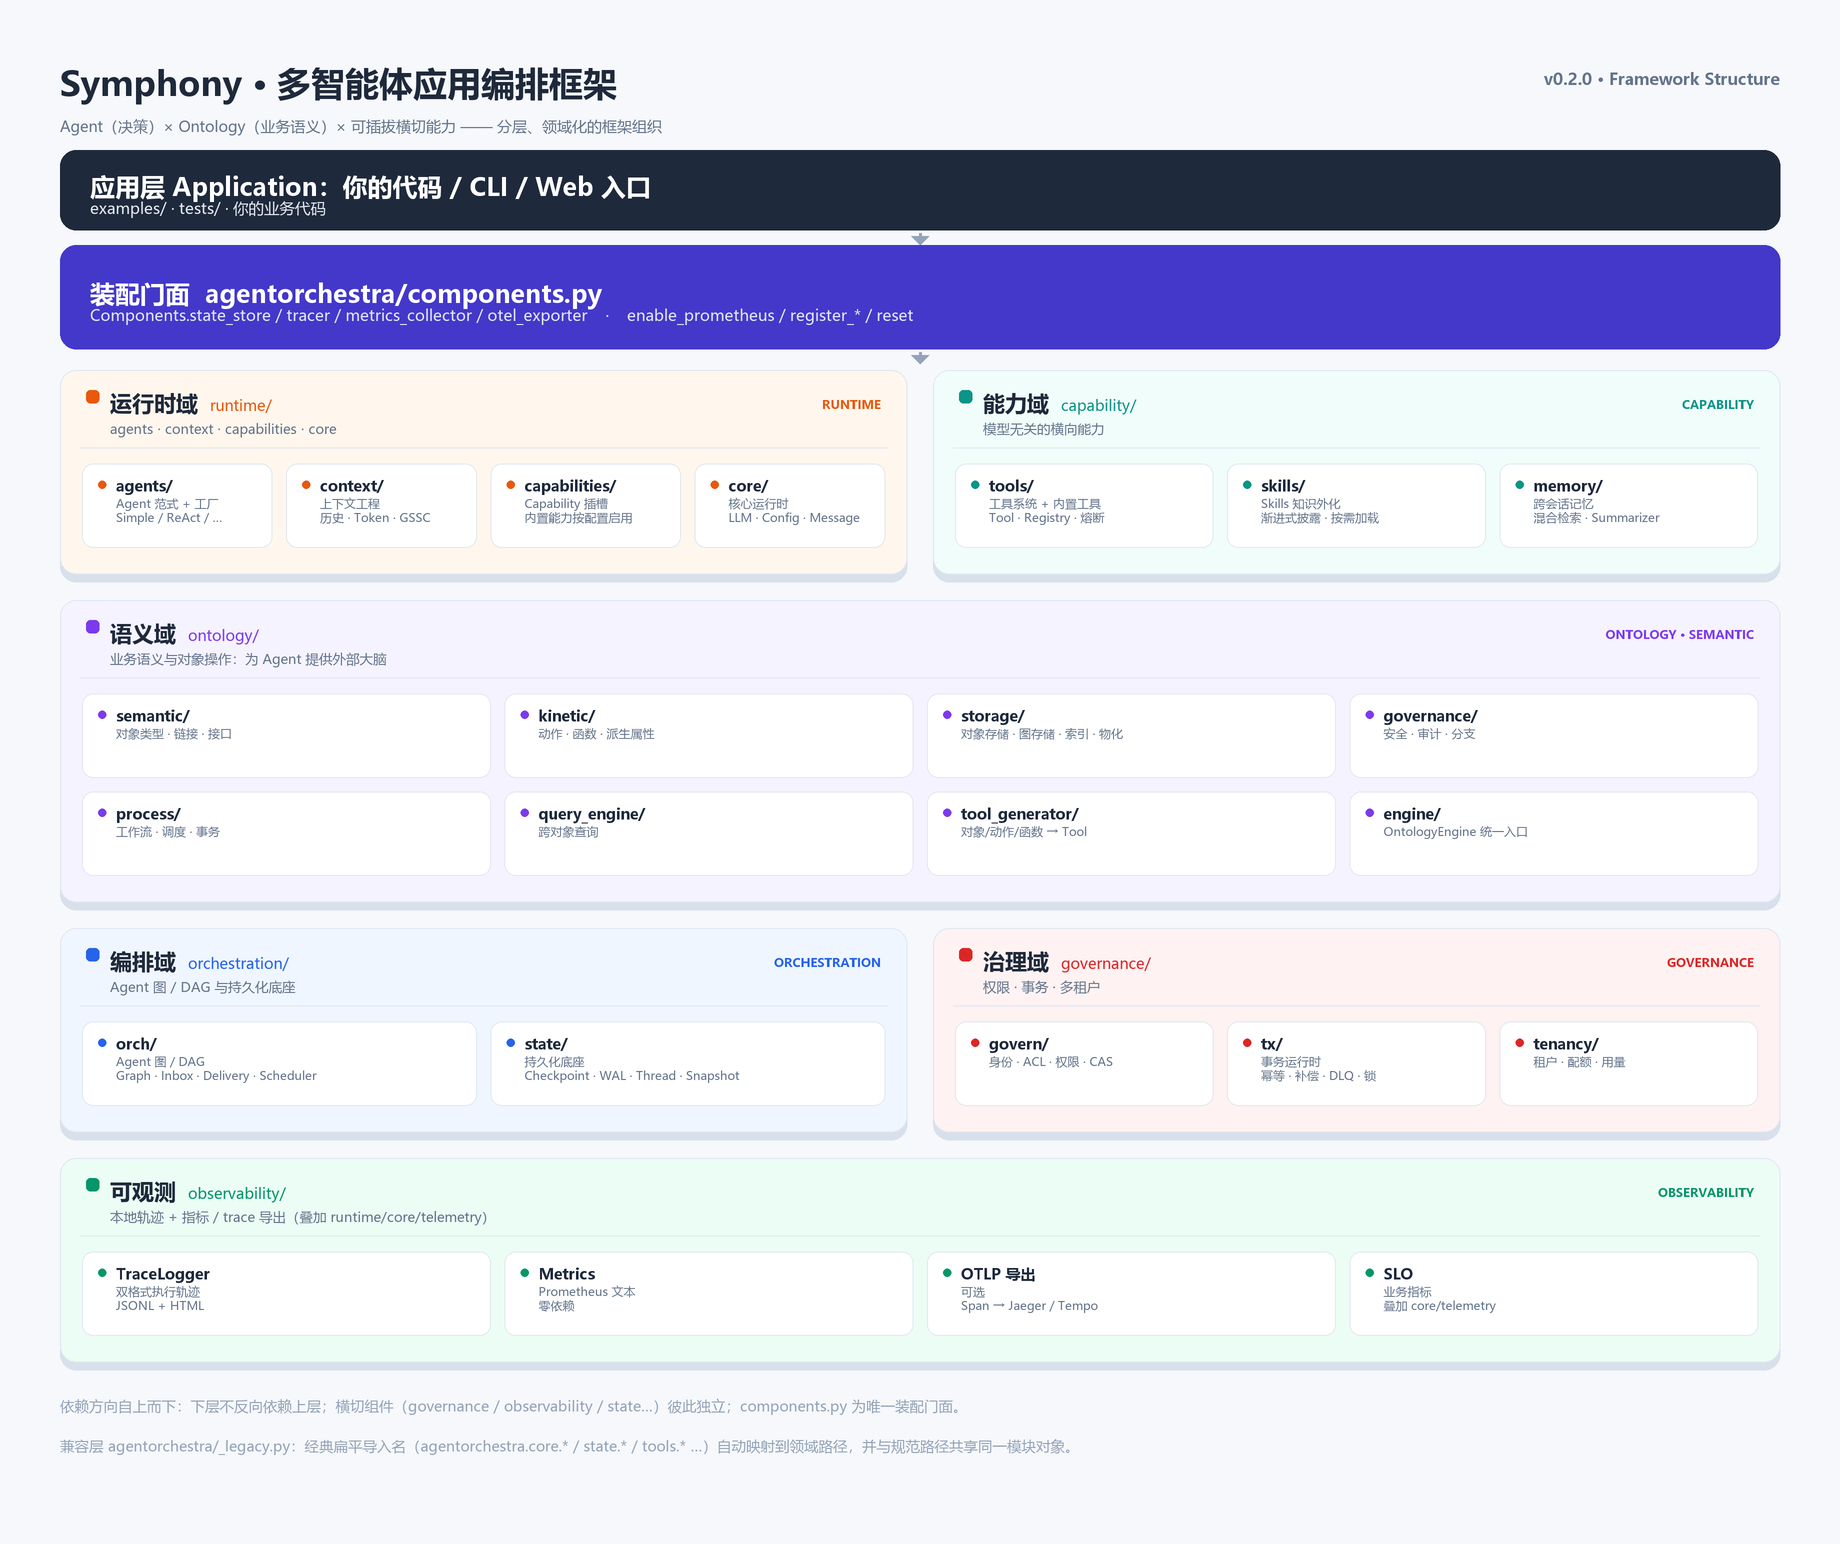
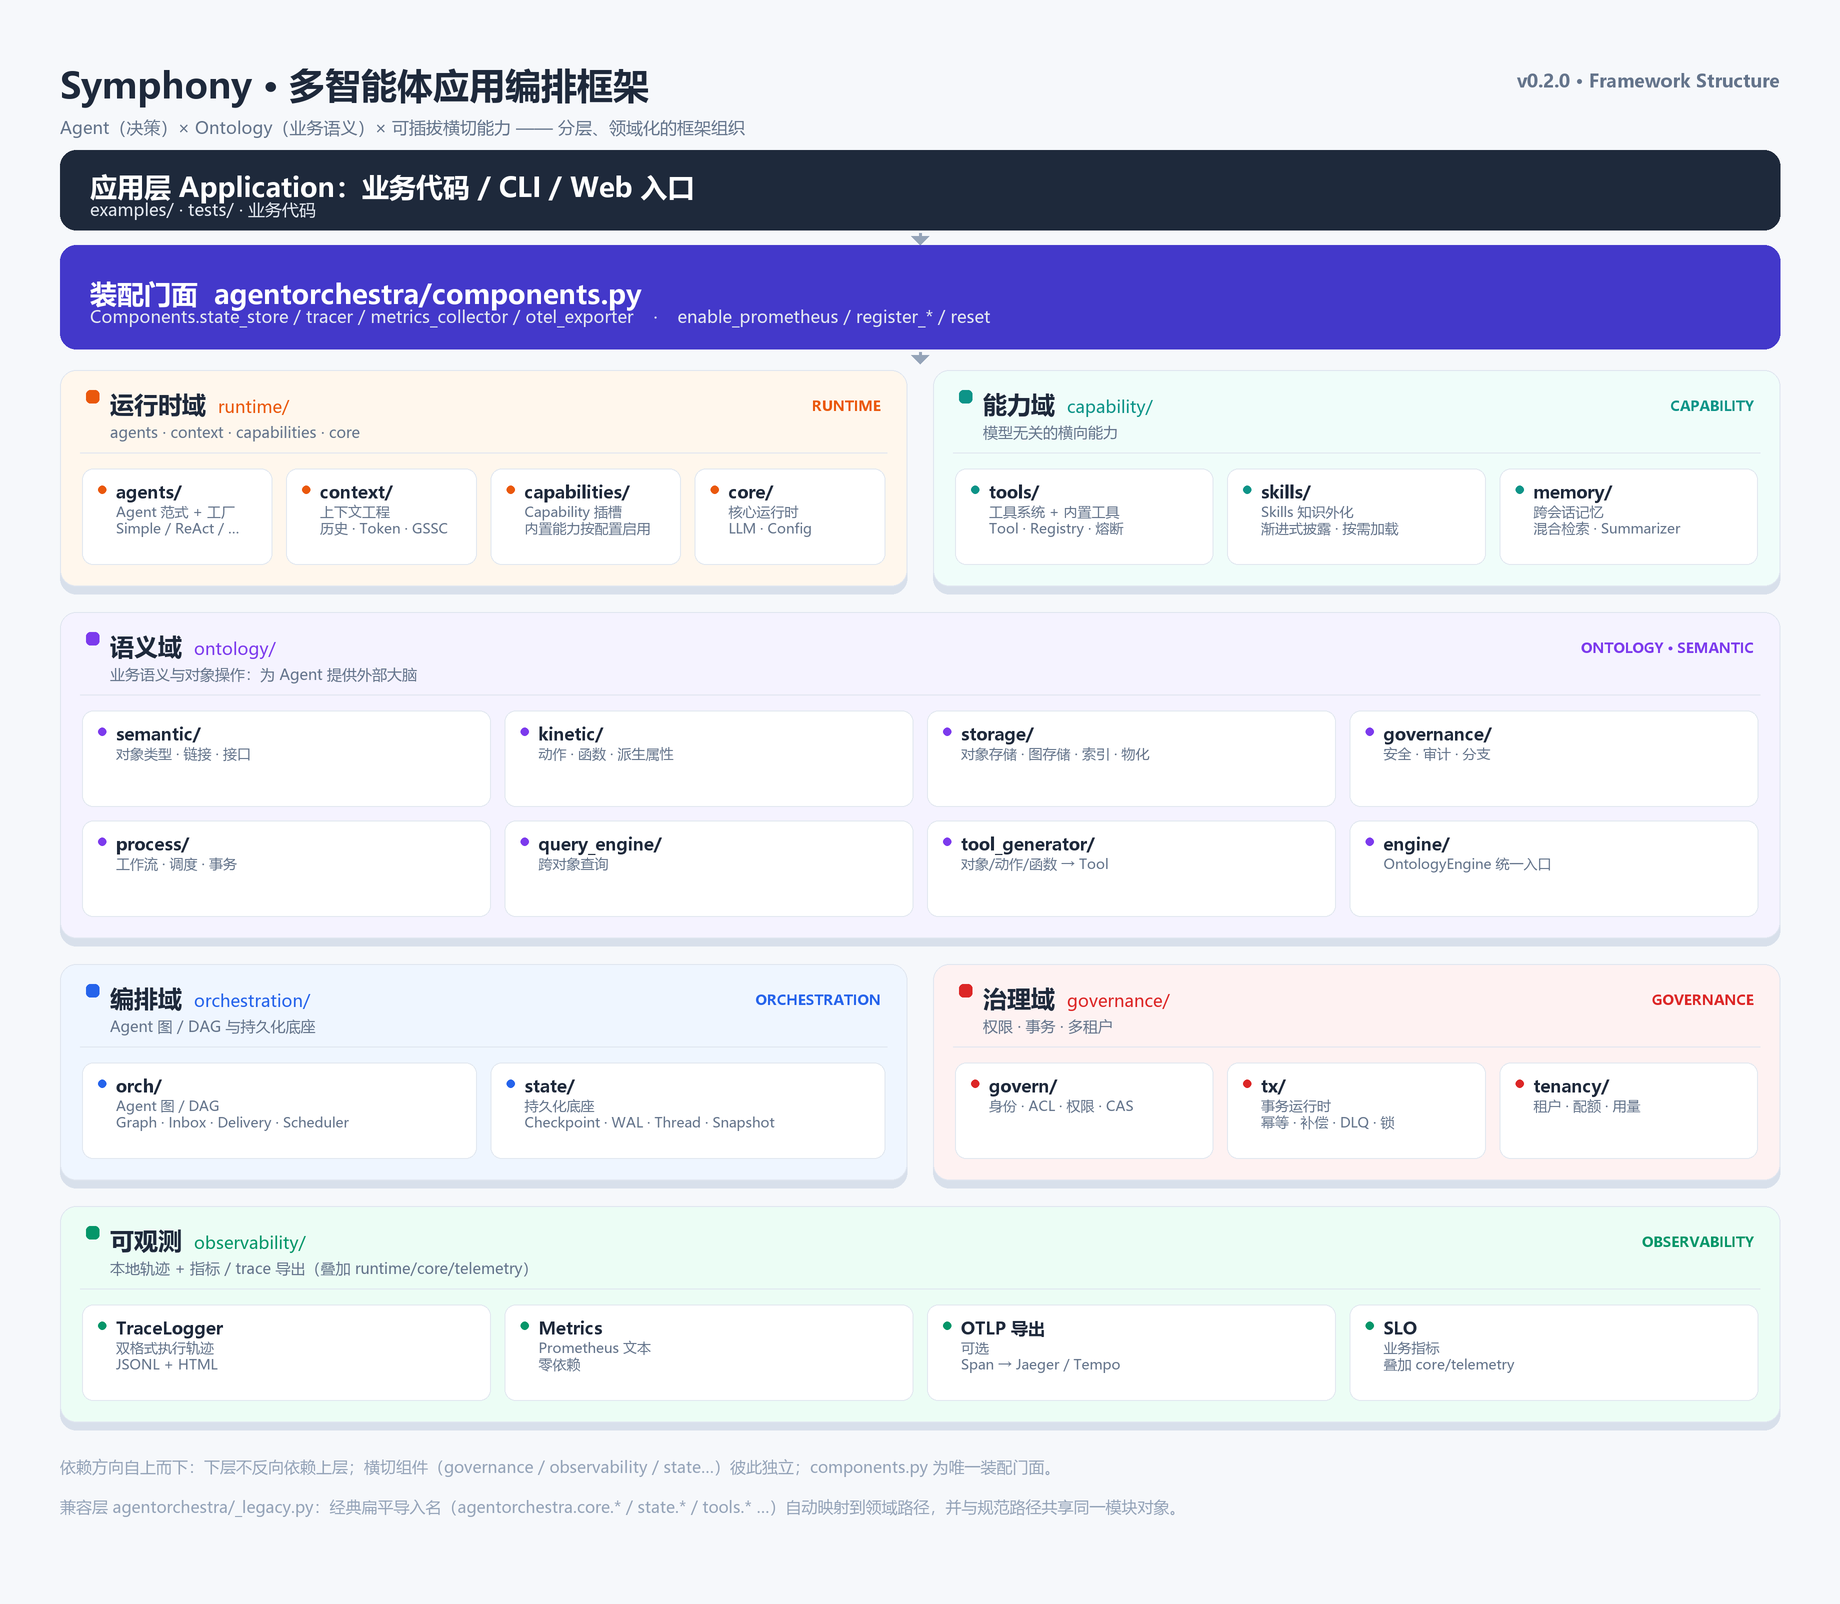
docs(architecture): add component wiring section and refresh structure diagram (style + fonts)

diff --git a/docs/architecture/README.md b/docs/architecture/README.md
@@ -272,3 +272,103 @@ mypy agentorchestra            # 类型检查（可选；dev 依赖含 mypy）
 | 多租户与配额 | [docs/tenancy/README.md](../tenancy/README.md) |
 | 可观测性 | [docs/observability/README.md](../observability/README.md) |
 | 横切能力与上线/演进指南 | [docs/enterprise/README.md](../enterprise/README.md) |
+
+
+## 9. 整体运行链路：组件是如何串联的
+
+上面那十几个功能点同处一个框架里，靠"**自上而下的方向 + 显式注入 + 唯一的装配门面**"串起来。下面用一条真实的端到端主路径把它们按触发顺序串一遍，并指出每一跳对应哪个域、哪个文件、它和谁协作。
+
+### 9.1 一次 `ReActAgent.run()` 的真实旅程
+
+1. **应用层**（你的代码 / `examples/`）：`ReActAgent(name=..., llm=SymphonyLLM(...), tool_registry=ToolRegistry()).run("...")`
+2. **运行时域 · Agent 基类**（`runtime/core/agent/base.py`）在 `__init__` 中按需懒加载：
+   - `HistoryManager` + `TokenCounter` 来自 `runtime/context/*`（上下文工程）
+   - `ToolRegistry` 来自 `capability/tools/registry.py`（能力域）
+   - `TraceLogger` 来自 `runtime/core/telemetry/logging.py`（核心 telemetry），高层轨迹由 `observability/TraceLogger` 提供
+   - `CheckpointStore` 来自 `orchestration/state/*`（编排域）—— `state_checkpoint_enabled=True` 才挂
+3. **`agent.run()`** 把用户消息写进历史（`add_message` → `HistoryManager.append` + Token 计数 + 可能压缩 + 周期 `SessionStore` 保存）
+4. **调用 LLM**：`SymphonyLLM`（`runtime/core/llm/__init__.py`）→ 适配器（`runtime/core/llm/adapters.py::BaseLLMAdapter`），并通过 `runtime/core/telemetry/tracing.py::get_tracer` 起一个 `Span` 记 token / 延迟
+5. **如需调用工具**：`ToolRegistry.execute_tool(name, args)`（`capability/tools/registry.py`）按序经过：
+   - `tool_filter`（访问控制）
+   - `CircuitBreaker`（熔断）
+   - 真实 `Tool.run`，结果封装为 `ToolResponse`（含错误码 `ToolErrorCode`）
+   - 输出经 `ObservationTruncator`（`runtime/context/truncator.py`）按字节/行数截断
+   - 把结果回填到 messages，进入下一轮
+6. **可观测性**：
+   - `TraceLogger` 写 JSONL + HTML 轨迹
+   - `MetricsCollector`（通过 `Components.metrics_collector()` 拿到）记录工具/动作计数与延迟，渲染为 Prometheus 文本
+   - 可选 `OTLPHttpJsonExporter` 把 `Span` 发到 Jaeger / Tempo
+   - **业务代码与 Agent 都不知道具体实现**，全部经 `Components` 装配
+7. **持久化与恢复**（编排域 `state`）：每步完成后 `state.checkpoint(...)` 落 `CheckpointStore`（默认 SQLite，`backends/sqlite_backend.py`），写 `WAL`（`orchestration/state/wal.py`）；恢复时从 `Thread` / `Snapshot` 重建
+8. **治理**：
+   - `governance/govern/permission.py::PermissionChecker` 在动作执行前做 RBAC + 行级 ACL
+   - `governance/govern/identity.py::IdentityService` + `ACLManager` 维护身份
+   - `governance/tenancy/tenant.py::TenantManager` + `QuotaManager` + `UsageRecorder` 维持租户 / 配额 / 用量
+9. **事务**（`governance/tx`）：`TransactionCoordinator.execute([...])` 协调幂等 / 补偿 / DLQ / 乐观锁；状态全落到 `orchestration/state.records` 与 `WAL`
+10. **运行时域的 Capability 插槽**（`runtime/capabilities/`）：`trace / skills / mcp / ontology / checkpoint / ...` 作为可插拔的 `Capability`，Agent 启动时按配置自动注册——这就把"领域能力"以可插拔方式挂到 Agent 上
+11. **编排域 `orchestration/orch`**：需要多 Agent 协作时用 `Graph` + `Inbox` + `DeliveryManager` + 事件（`events.py`）组成 DAG/图，节点类型 `AgentNode / RouterNode / FunctionalNode / MergeNode`；`GraphScheduler` 触发定时执行，中间状态由 `state/` 落地
+
+### 9.2 事务链路（governance/tx ↔ orchestration/state）
+
+`TransactionCoordinator.execute([...])` 走过的实际步骤：
+
+1. 用 `idempotency` 键去重（`IdempotencyRecord` 写入 `orchestration/state/records.py`）
+2. 乐观锁 `lock.py` 在 state 上 CAS
+3. 顺序执行 actions；失败按反向 `CompensatingAction` 回退
+4. 不可补偿的进 `DLQ`（`dlq.py`）
+5. 全程写 `WALEntry`（`state.wal`），崩溃后可恢复
+
+### 9.3 持久化与恢复（orchestration/state）
+
+- 默认零依赖 SQLite（`backends/sqlite_backend.py`）；要 PG 用 `postgres_backend.py`；纯内存用 `memory_backend.py`；统一用 `get_default_store(db_url)` 选择
+- `Checkpoint` + `WAL` + `Thread` + `Snapshot` + `records` + `Interrupt`（HITL 人工接管）+ `backends` 全部走同一 `CheckpointStore` 抽象
+
+### 9.4 编排（orchestration/orch）
+
+`Graph` 由 `AgentNode / RouterNode / MergeNode / FunctionalNode` 组成；节点间消息走 `Inbox` + `DeliveryManager`，事件通过 `events.NodeEvent / NodeEventType` 携带状态。`GraphScheduler` 触发 `Workflow`，中间结果在 `state/` 落地
+
+### 9.5 可观测如何在每一步挂钩
+
+- `runtime/core/telemetry/` 提供基础件（`get_logger / Span / Tracer / get_metrics`），不依赖任何外部包
+- `observability/` 在它之上加高层实现：`TraceLogger`（JSONL+HTML）、Prometheus 文本收集器、`OTLPHttpJsonExporter`、SLO
+- 装配只发生在 `components.py` 一个入口；业务代码通过 `Components.tracer() / metrics_collector()` 拿到的是接口；要替换就 `register_*`
+
+### 9.6 治理与多租户
+
+- `governance/govern/identity.py::IdentityService` + `ACLManager` + `PermissionChecker`：身份 + 行级 ACL
+- `governance/tenancy/tenant.py::TenantManager` + `QuotaManager` + `UsageRecorder`：租户上下文 / 配额 / 用量
+- `governance/tx` 在事务里查租户与配额
+
+### 9.7 兼容层（_legacy.py）
+
+`agentorchestra/_legacy.py` 维护"经典名 → 领域路径"映射，根 `__init__.py` 导入时 `install_legacy_aliases()` 装一个 `MetaPathFinder`，拦截经典名导入并指向规范物理路径的同一模块对象。所以
+- `from agentorchestra.agents.simple_agent import SimpleAgent`
+- `from agentorchestra.runtime.agents.simple_agent import SimpleAgent`
+
+拿到的是**同一个类**，旧仓库代码一行不动也能跑
+
+### 9.8 把某一块换成自己的实现
+
+`components.py` 是唯一的"装配地图"。要换存储 / 追踪 / 指标 / trace 导出，只要在 Agent 启动前：
+
+```python
+Components.register_state_store(my_store_factory)
+Components.register_tracer(my_tracer_factory)
+Components.register_metrics_collector(my_collector_factory)
+Components.register_otel_exporter(my_exporter_factory)
+Components.enable_prometheus()  # 开启 Prometheus 文本指标
+Components.enable_otel_trace(endpoint="http://jaeger:4318", service_name="agentorchestra")  # 开启 OTLP trace
+```
+
+之后业务代码 **零改动** 即可看到自定义实现生效。
+
+---
+
+简而言之，框架的"串接方式"是：
+- **方向** = 自上而下 + 显式注入；`components.py` 唯一知道横切组件的"默认实现/可替换实现/装配组合"
+- **依赖** = 用 `ToolRegistry` / `CheckpointStore` / `Tracer` / `IdentityContext` 这类**抽象**在领域间传递，物理实现通过 `components.py` 懒加载
+- **可发现** = 任何跨域能力都经"门面 + 注册"两步（`register_*` / `enable_*`），让业务代码只与接口对话
+- **向后兼容** = `_legacy.py` 把经典名映射到新物理路径，单模块对象
+- **可观测** = 所有跨域能力都能在 `Components.tracer / metrics_collector / otel_exporter` 三处挂钩
+
+这也就是为什么 6 个域能在一个框架里和平共处。
